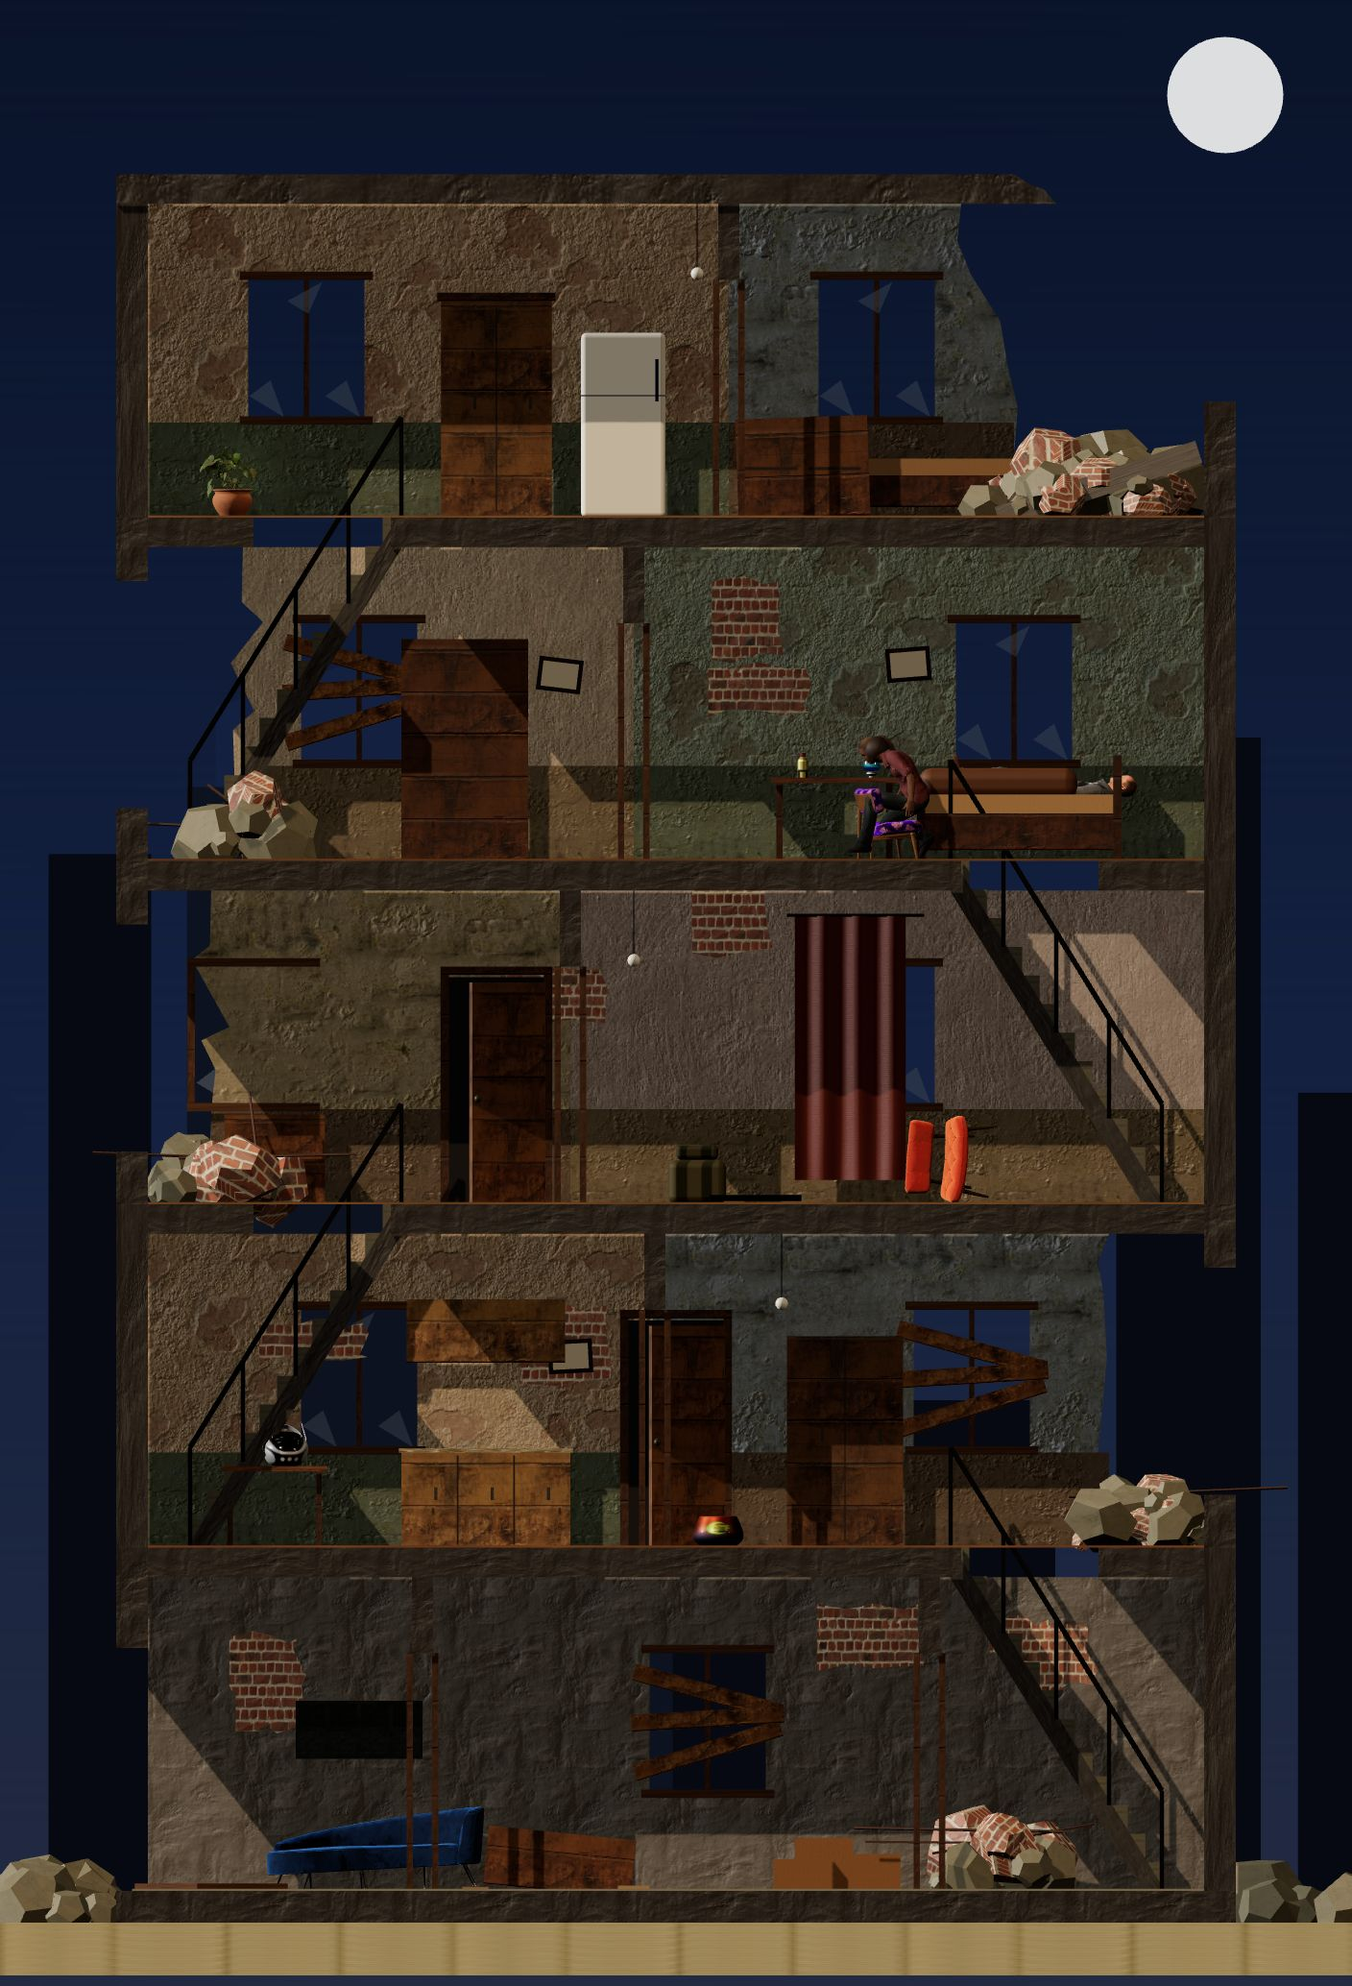
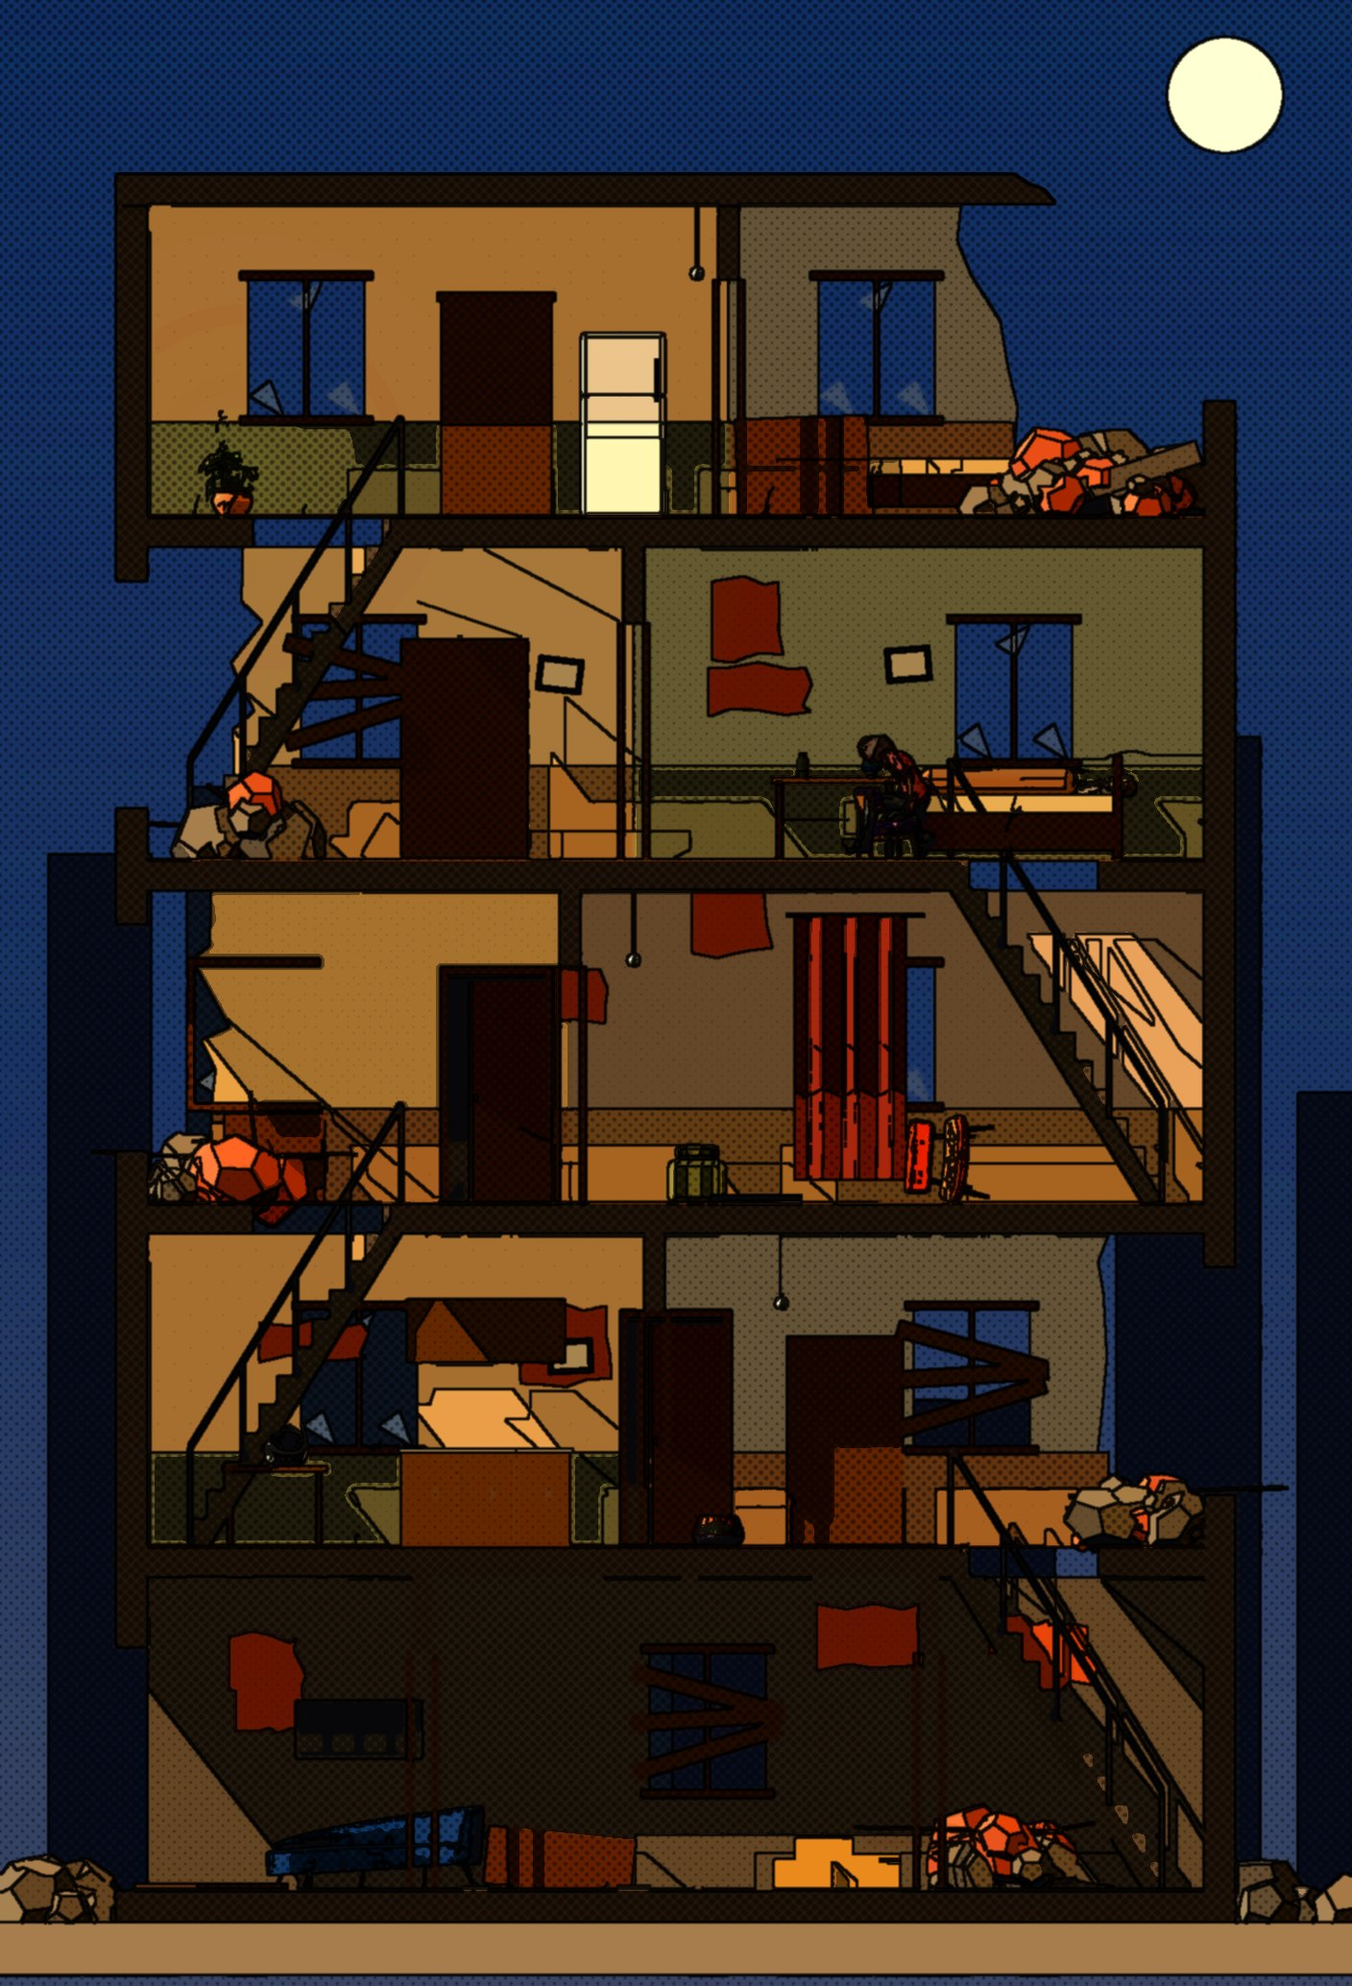
天亮之前：第一關改成美式漫畫風格（粗墨線、平塗、網點、旁白框、對話泡泡、狀聲字）
Claude-Session: https://claude.ai/code/session_012Lv6gWQAPaAvqZzYnHc8ne

diff --git a/night/index.html b/night/index.html
@@ -5,15 +5,15 @@
 <meta name="viewport" content="width=device-width,initial-scale=1,maximum-scale=1,user-scalable=no,viewport-fit=cover">
 <title>天亮之前</title>
 <link rel="preconnect" href="https://fonts.googleapis.com">
-<link href="https://fonts.googleapis.com/css2?family=Noto+Serif+TC:wght@600;900&display=swap" rel="stylesheet">
+<link href="https://fonts.googleapis.com/css2?family=Noto+Serif+TC:wght@600;900&family=Noto+Sans+TC:wght@500;700;900&display=swap" rel="stylesheet">
 <style>
-  :root { --paper: #ebe6da; --ink: #26231f; --mid: #8a837a; --acc: #9b2b1f; --btn: #f4f0e6; --btnInk: #26231f; }
+  :root { --font: "Noto Serif TC", "Songti TC", serif; --cap: #ebe6da; --paper: #ebe6da; --ink: #26231f; --mid: #8a837a; --acc: #9b2b1f; --btn: #f4f0e6; --btnInk: #26231f; }
   html, body { margin: 0; height: 100%; background: var(--paper); overflow: hidden; touch-action: none; -webkit-user-select: none; user-select: none; -webkit-touch-callout: none; }
-  body { font-family: "Noto Serif TC", "Songti TC", serif; color: var(--ink); }
+  body { font-family: var(--font); color: var(--ink); }
   canvas { position: fixed; inset: 0; width: 100vw; height: 100dvh; display: block; }
   #ctl[hidden] { display: none !important; }
   #ctl { position: fixed; left: 0; right: 0; bottom: 0; height: 128px; padding: 0 14px calc(10px + env(safe-area-inset-bottom)); display: flex; align-items: center; gap: 12px; pointer-events: none; }
-  .b { pointer-events: auto; border: 3px solid var(--btnInk); background: var(--btn); color: var(--btnInk); font: 900 22px "Noto Serif TC", serif; border-radius: 2px; height: 86px; display: grid; place-items: center; box-shadow: 4px 4px 0 var(--btnInk); -webkit-tap-highlight-color: transparent; padding: 0; }
+  .b { pointer-events: auto; border: 3px solid var(--btnInk); background: var(--btn); color: var(--btnInk); font: 900 22px var(--font); border-radius: 2px; height: 86px; display: grid; place-items: center; box-shadow: 4px 4px 0 var(--btnInk); -webkit-tap-highlight-color: transparent; padding: 0; }
   .b:active, .b.on { transform: translate(3px, 3px); box-shadow: 1px 1px 0 var(--btnInk); }
   #bL, #bR { width: 92px; font-size: 40px; }
   #bAct { flex: 1; font-size: 26px; line-height: 1.15; }
@@ -29,17 +29,26 @@
   .sheet .q { color: var(--acc); font-weight: 900; }
   .sheet .row { display: grid; gap: 12px; margin-top: 14px; }
   .sheet .row.two { grid-template-columns: 1fr 1fr; }
-  .sheet button { pointer-events: auto; border: 3px solid var(--ink); background: var(--btn); color: var(--ink); font: 900 21px "Noto Serif TC", serif; padding: 14px 6px; box-shadow: 4px 4px 0 var(--ink); border-radius: 2px; line-height: 1.3; }
+  .sheet button { pointer-events: auto; border: 3px solid var(--ink); background: var(--btn); color: var(--ink); font: 900 21px var(--font); padding: 14px 6px; box-shadow: 4px 4px 0 var(--ink); border-radius: 2px; line-height: 1.3; }
   .sheet button small { display: block; font-size: 14px; font-weight: 600; color: var(--mid); }
   .sheet button:active { transform: translate(3px, 3px); box-shadow: 1px 1px 0 var(--ink); }
   .sheet .timer { height: 8px; background: var(--ink); margin: 6px 0 4px; transform-origin: left; }
   .sheet .note { font-size: 15px; color: var(--mid); font-weight: 600; margin-top: 14px; }
   #card .credit { font-size: 11px; line-height: 1.5; opacity: .55; margin: 10px 0 0; font-weight: 400; }
-  #toast { position: fixed; left: 50%; bottom: 146px; transform: translateX(-50%); font: 900 19px "Noto Serif TC", serif; padding: 8px 16px; background: var(--paper); border: 3px solid var(--ink); box-shadow: 4px 4px 0 var(--ink); white-space: nowrap; transition: opacity .3s; opacity: 0; pointer-events: none; }
+  #toast { position: fixed; left: 50%; bottom: 146px; transform: translateX(-50%); font: 900 19px var(--font); padding: 8px 16px; background: var(--paper); border: 3px solid var(--ink); box-shadow: 4px 4px 0 var(--ink); white-space: nowrap; transition: opacity .3s; opacity: 0; pointer-events: none; }
   /* 樣式二：褪色照片 */
   body.s2 { --paper: #d9d1c2; --ink: #16181b; --mid: #6d6a63; --acc: #a33a2a; --btn: #e3dccd; background: #101215; }
   /* 樣式三：版畫 */
   body.s3 { --paper: #efe6d0; --ink: #141210; --mid: #5a524a; --acc: #b3261e; --btn: #efe6d0; }
+  /* 第一關：美式漫畫 */
+  body.comic { --font: "Noto Sans TC", "PingFang TC", sans-serif; --paper: #fffaf0; --ink: #0d0d0f; --mid: #4a4744; --acc: #d8261c; --btn: #fffaf0; --btnInk: #0d0d0f; --cap: #f7d23c; background: #0d0d0f; }
+  body.comic .b, body.comic .sheet, body.comic .sheet button, body.comic #toast { border-width: 4px; }
+  body.comic .sheet { box-shadow: 9px 9px 0 var(--ink); }
+  body.comic .sheet h1 { display: inline-block; background: var(--cap); border: 4px solid var(--ink); padding: 2px 12px; transform: rotate(-1.5deg); margin-bottom: 10px; }
+  body.comic .sheet h2 { font-weight: 700; }
+  body.comic .sheet p { font-weight: 500; }
+  body.comic #toast { background: var(--cap); font-weight: 900; letter-spacing: 1px; }
+  body.comic .sheet button { background: #fff; }
 </style>
 </head>
 <body>
@@ -56,7 +65,7 @@
    避開巡邏兵的手電筒與外面的探照燈；四樓老夫婦的桌上有藥。天亮前回家。
    ========================================================= */
 const Q = new URLSearchParams(location.search);
-const STYLE = 2; document.body.classList.add('s2'); // 擬真夜景（3D 算繪的公寓剖面＋人物動作圖）
+const STYLE = 2; document.body.classList.add('s2', 'comic'); const COMIC = true, FONT = COMIC ? '"Noto Sans TC", "PingFang TC", sans-serif' : '"Noto Serif TC", serif'; // 擬真夜景（3D 算繪的公寓剖面＋人物動作圖）
 const cv = document.getElementById('cv'), g = cv.getContext('2d');
 const $ = (id) => document.getElementById(id);
 const clamp = (v, a, b) => Math.max(a, Math.min(b, v)), lerp = (a, b, t) => a + (b - a) * t;
@@ -178,7 +187,9 @@ function plan() {
 }
 function startNight() { hideCard(); S.phase = 'night'; S.t = 0; $('ctl').hidden = false; toast('天亮前要回到一樓的門口', 2200); }
 
-let DLG = null; // 四樓老夫婦的兩難：限時 8 秒
+let DLG = null; const FX = []; // 狀聲字
+function say(text, dur = 1.8) { S.say = { text, t: dur }; }
+// 上面：四樓老夫婦的兩難（限時 8 秒）、漫畫的狀聲字與對話泡泡
 function coupleDilemma(box) {
   S.phase = 'dlg'; DLG = { t: 8, box };
   card(`<h1 style="font-size:26px">四樓・老夫婦的房間</h1>
@@ -198,7 +209,7 @@ function addLoot(it) { if (S.bag.length >= S.cap) { toast('背包滿了'); retur
 
 function caught(by) {
   S.caught = true; S.phase = 'end'; S.lost = S.bag.length; S.bag = []; $('ctl').hidden = true; S.spotBy = by;
-  setTimeout(morning, 1400); toast(by === 'beam' ? '探照燈照到你了！' : '巡邏兵：「站住！」', 1400);
+  setTimeout(morning, 1400); if (by === 'beam') toast('探照燈照到你了！', 1400); else say('站住！', 2);
 }
 function goHome() { S.home = true; S.phase = 'end'; $('ctl').hidden = true; morning(); }
 function morning() {
@@ -258,6 +269,10 @@ function update(dt) {
     if (p.search.t >= p.search.need) { const b = p.search.b; b.done = true; p.search = null; if (!b.loot.length) toast(`${b.n}：空的`); else { const got = []; for (const it of b.loot) if (addLoot(it)) got.push(it); if (got.length) toast(`找到：${got.join('、')}`); } } }
   // 巡邏兵（三樓）：來回走、在兩端停下來張望；聽到聲音就走過來看
   const sol = S.sol; sol.look += dt;
+  if (sol.mode !== sol.prevMode) { if (sol.mode === 'listen') say(sol.prevMode === 'rest' ? '……嗯？' : '嗯？'); else if (sol.mode === 'look') say('誰在那裡？'); sol.prevMode = sol.mode; }
+  if (S.say) { S.say.t -= dt; if (S.say.t <= 0) S.say = null; }
+  for (let i = FX.length - 1; i >= 0; i--) { FX[i].t += dt; if (FX[i].t > 0.9) FX.splice(i, 1); }
+  if (p.search) { p.search.fx = (p.search.fx || 0) - dt; if (p.search.fx <= 0) { p.search.fx = 0.65; FX.push({ x: p.x + (Math.random() - 0.3) * 0.6, y: p.f * HF + 0.9 + Math.random() * 0.4, text: ['喀啦', '沙沙', '咔'][Math.floor(Math.random() * 3)], t: 0 }); } }
   if (sol.mode === 'patrol') { if (sol.wait > 0) { sol.wait -= dt; if (sol.wait < 1.0 && sol.wait + dt >= 1.0) sol.dir = -sol.dir; } else { sol.x += sol.dir * 0.85 * dt; if (sol.x < 1.0 || sol.x > 9.2) { const left = sol.x < 1.0; sol.x = clamp(sol.x, 1.0, 9.2); sol.wait = 2.2; if (left) { sol.legs = (sol.legs || 0) + 1; if (sol.legs % 2 === 0) { sol.mode = 'rest'; sol.dir = -1; sol.wait = 12; } } } } }
   else if (sol.mode === 'listen') { const d = sol.tx - sol.x; if (Math.abs(d) > 0.6) { sol.dir = Math.sign(d); sol.x += sol.dir * 1.15 * dt; } else { sol.mode = 'look'; sol.wait = 3; } }
   else if (sol.mode === 'rest') { sol.wait -= dt; if (sol.wait <= 0) { sol.mode = 'patrol'; sol.dir = 1; sol.wait = 0.6; } } // 在窗邊抽菸：面向窗外、手電筒關掉
@@ -267,7 +282,7 @@ function update(dt) {
   if (!p.hide && sol.mode !== 'rest' && (p.climb <= 0 || climbK(p) > 0.75) && sol.f === p.f) { const dx = (p.x - sol.x) * sol.dir; if (dx > 0.15 && dx < 3.2) { seen = 1.6 - dx * 0.25; by = 'sol'; } }
   S.beam.t += dt; const bx = beamX();
   if (!p.hide && p.f === 4 && bx !== null && Math.abs(p.x - bx) < 0.7 && WINDOWS.some((w) => w.f === 4 && Math.abs(w.x - p.x) < 0.8)) { seen = Math.max(seen, 1.5); by = by || 'beam'; }
-  if (seen) { S.spot += seen * dt; S.spotBy = by; } else S.spot = Math.max(0, S.spot - dt * 0.7);
+  if (seen) { if (S.spot < 0.45 && S.spot + seen * dt >= 0.45 && by === 'sol') say('那是什麼……'); S.spot += seen * dt; S.spotBy = by; } else S.spot = Math.max(0, S.spot - dt * 0.7);
   if (S.spot > 0.05) { AU.hbT -= dt; if (AU.hbT <= 0) { AU.hbT = 0.55 - S.spot * 0.3; thump(0.18 + S.spot * 0.4); } }
   if (S.spot >= 1 && S.phase === 'night') caught(S.spotBy);
   if (AU.wind && AU.ctx) AU.wind.gain.value = 0.05;
@@ -308,7 +323,7 @@ function player() { const p = S.p; let y = BASE(p.f), x = X(p.x), nm = 'p_idle',
   if (p.climb > 0) { y = WY(climbY(p)); nm = climbK(p) < 0.15 ? 'p_walk' : 'p_climb'; fr = p.walk * 1.1; }
   else if (p.hide || p.search) nm = 'p_crouch'; else if (Math.abs(p.vx) > 0.3) { nm = 'p_walk'; fr = p.walk * 1.1; }
   if (p.hide && p.hide.k === 'curtain') nm = 'p_idle'; // 站在窗簾後面，只露出腳
-  sprite(nm, fr, x, y, p.face, p.hide ? 0.55 : 0.12); }
+  if (COMIC && !p.hide) { g.save(); g.shadowColor = 'rgba(255,236,170,0.95)'; g.shadowBlur = 7; } sprite(nm, fr, x, y, p.face, p.hide ? 0.55 : COMIC ? 0 : 0.12); if (COMIC && !p.hide) g.restore(); }
 // 背景圖的一塊（世界座標的長方形）畫到畫面上
 function bgPart(img, x0, y0, x1, y1, ctx = g) { const k = BGV.pxm; ctx.drawImage(img, (x0 - BGV.x0) * k, (BGV.y1 - y1) * k, (x1 - x0) * k, (y1 - y0) * k, X(x0), WY(y1), (x1 - x0) * L.u, (y1 - y0) * L.u); }
 const HIDE_BOX = { door: [-0.62, 0.62, 2.3], curtain: [-0.62, 0.62, 2.8], wardrobe: [-0.62, 0.62, 2.2], tipped: [-0.75, 0.75, 1.1] };
@@ -358,7 +373,15 @@ function draw() {
   if (sh.beam) { g.globalAlpha = 0.2; g.fillStyle = '#dfe8ff'; g.beginPath(); sh.beam.forEach(([x, y], i) => (i ? g.lineTo(x, y) : g.moveTo(x, y))); g.closePath(); g.fill(); }
   g.restore();
   dust();
-  if (S.spot > 0.05 && S.spotBy === 'sol') { g.fillStyle = '#ff5a48'; g.font = `900 ${Math.round(L.fh * 0.3)}px serif`; g.textAlign = 'center'; g.fillText('！', X(S.sol.x), BASE(S.sol.f) - L.fh * 0.7); }
+  if (COMIC) { // 漫畫：狀聲字、對話泡泡
+    for (const fx of FX) { const k = fx.t / 0.9; g.save(); g.globalAlpha = 1 - k * k; g.translate(X(fx.x), WY(fx.y + k * 0.35)); g.rotate(-0.12); g.font = `900 ${Math.round(L.u * 0.42)}px ` + FONT; g.textAlign = 'center'; g.lineJoin = 'round'; g.lineWidth = 5; g.strokeStyle = '#0d0d0f'; g.strokeText(fx.text, 0, 0); g.fillStyle = '#f7d23c'; g.fillText(fx.text, 0, 0); g.restore(); }
+    if (S.say && S.sol.f >= 0) { const sx = X(S.sol.x), sy = BASE(S.sol.f) - L.u * 2.05; g.font = `900 ${Math.round(Math.max(15, L.u * 0.46))}px ` + FONT; const tw = g.measureText(S.say.text).width, bw = tw + 26, bh = Math.max(34, L.u * 0.95); const bx = clamp(sx - bw * 0.35, 8, W - bw - 8), by = sy - bh;
+      const pop = Math.min(1, (1.8 - Math.min(1.8, S.say.t)) * 8 + 0.6); g.save(); g.translate(bx + bw / 2, by + bh / 2); g.scale(pop, pop); g.translate(-(bx + bw / 2), -(by + bh / 2));
+      g.fillStyle = '#fff'; g.strokeStyle = '#0d0d0f'; g.lineWidth = 3.5; g.beginPath(); g.ellipse(bx + bw / 2, by + bh / 2, bw / 2, bh / 2, 0, 0, 7); g.fill(); g.stroke();
+      g.beginPath(); g.moveTo(sx - 6, by + bh - 4); g.lineTo(sx + 2, sy + L.u * 0.25); g.lineTo(sx + 10, by + bh - 6); g.closePath(); g.fill(); g.beginPath(); g.moveTo(sx - 6, by + bh - 2); g.lineTo(sx + 2, sy + L.u * 0.25); g.lineTo(sx + 10, by + bh - 4); g.stroke();
+      g.fillStyle = '#0d0d0f'; g.textAlign = 'center'; g.textBaseline = 'middle'; g.fillText(S.say.text, bx + bw / 2, by + bh / 2 + 1); g.textBaseline = 'alphabetic'; g.restore(); }
+  }
+  if (S.spot > 0.05 && S.spotBy === 'sol') { g.fillStyle = '#ff5a48'; g.font = `900 ${Math.round(L.fh * 0.3)}px ` + FONT; g.textAlign = 'center'; g.fillText('！', X(S.sol.x), BASE(S.sol.f) - L.fh * 0.7); }
   if (CLEAN) return;
   for (const b of S.boxes) if (S.p.f === b.f && Math.abs(S.p.x - b.x) < 2.2) { g.globalAlpha = b.done ? 0.45 : 1; marker(X(b.x), BASE(b.f) - L.fh * 0.78, b.done ? '✕' : '?'); g.globalAlpha = 1; if (!b.done && b.prog > 0 && !(S.p.search && S.p.search.b === b)) { const need = S.ate ? 1.7 : 2.6, x0 = X(b.x) - 16, y0 = BASE(b.f) - L.fh * 0.78 + 16; g.fillStyle = 'rgba(22,24,27,0.85)'; g.fillRect(x0, y0, 32, 6); g.fillStyle = '#e8e1d0'; g.fillRect(x0, y0, 32 * Math.min(1, b.prog / need), 6); g.strokeStyle = '#e8e1d0'; g.lineWidth = 1.5; g.strokeRect(x0, y0, 32, 6); } }
   const LB = [];
@@ -375,18 +398,18 @@ function dust() { g.save(); g.globalCompositeOperation = 'lighter'; const ws = W
   for (const d of DUST) { const w = ws[d.w % ws.length]; const t = (S.t * 0.04 * d.s + d.a) % 1; const x = X(w.x - 0.55 + d.b * 1.1 - t * 0.6 + Math.sin(S.t * 0.7 + d.a * 9) * 0.05), y = WY(w.f * HF + 2.1 - t * 2.0); const al = Math.sin(t * Math.PI) * 0.35; g.fillStyle = `rgba(200,215,245,${al})`; g.fillRect(x, y, 1.4 * d.s + 0.4, 1.4 * d.s + 0.4); }
   g.restore(); }
 function marker(x, y, t) { const r = 12; g.fillStyle = '#e8e1d0'; g.strokeStyle = '#16181b'; g.lineWidth = 2.5; g.beginPath(); g.arc(x, y, r, 0, 7); g.fill(); g.stroke(); g.fillStyle = '#16181b'; g.font = '900 16px serif'; g.textAlign = 'center'; g.textBaseline = 'middle'; g.fillText(t, x, y + 1); g.textBaseline = 'alphabetic'; }
-function label(x, y, t) { g.font = '900 14px "Noto Serif TC", serif'; g.textAlign = 'center'; const w = g.measureText(t).width + 12; g.fillStyle = '#e8e1d0'; g.fillRect(x - w / 2, y - 15, w, 21); g.strokeStyle = '#16181b'; g.lineWidth = 2; g.strokeRect(x - w / 2, y - 15, w, 21); g.fillStyle = '#16181b'; g.fillText(t, x, y + 1); }
+function label(x, y, t) { g.font = '900 14px ' + FONT; g.textAlign = 'center'; const w = g.measureText(t).width + 12; g.fillStyle = '#e8e1d0'; g.fillRect(x - w / 2, y - 15, w, 21); g.strokeStyle = '#16181b'; g.lineWidth = 2; g.strokeRect(x - w / 2, y - 15, w, 21); g.fillStyle = '#16181b'; g.fillText(t, x, y + 1); }
 function hud() {
-  const y = 12, bg = '#e3dccd', ink = '#16181b';
+  const y = 12, bg = COMIC ? '#f7d23c' : '#e3dccd', ink = COMIC ? '#0d0d0f' : '#16181b';
   if (!hud.grain) { const c = document.createElement('canvas'); c.width = c.height = 96; const h = c.getContext('2d'); const d = h.createImageData(96, 96); for (let i = 0; i < d.data.length; i += 4) { const v = Math.random() * 255; d.data[i] = d.data[i + 1] = d.data[i + 2] = v; d.data[i + 3] = 18; } h.putImageData(d, 0, 0); hud.grain = g.createPattern(c, 'repeat'); }
-  g.save(); g.fillStyle = hud.grain; g.translate((Math.random() * 96) | 0, (Math.random() * 96) | 0); g.fillRect(-96, -96, W + 192, H + 192); g.restore();
+  if (!COMIC) { g.save(); g.fillStyle = hud.grain; g.translate((Math.random() * 96) | 0, (Math.random() * 96) | 0); g.fillRect(-96, -96, W + 192, H + 192); g.restore(); }
   const vg = g.createRadialGradient(W / 2, H * 0.45, Math.min(W, H) * 0.32, W / 2, H * 0.45, Math.max(W, H) * 0.75); vg.addColorStop(0, 'rgba(0,0,0,0)'); vg.addColorStop(1, 'rgba(0,0,0,0.35)'); g.fillStyle = vg; g.fillRect(0, 0, W, H);
-  g.fillStyle = bg; g.fillRect(10, y, W - 20, 50); g.strokeStyle = ink; g.lineWidth = 3; g.strokeRect(10, y, W - 20, 50);
-  g.fillStyle = ink; g.textAlign = 'left'; g.font = '900 20px "Noto Serif TC", serif'; g.textBaseline = 'middle';
+  g.fillStyle = bg; g.fillRect(10, y, W - 20, 50); g.strokeStyle = ink; g.lineWidth = COMIC ? 4 : 3; g.strokeRect(10, y, W - 20, 50);
+  g.fillStyle = ink; g.textAlign = 'left'; g.font = '900 20px ' + FONT; g.textBaseline = 'middle';
   const s = Math.ceil(S.dawn); g.fillText(S.phase === 'title' || S.phase === 'day' ? '被圍第 37 天' : `天亮前 ${Math.floor(s / 60)}:${String(s % 60).padStart(2, '0')}`, 22, y + 25);
-  g.textAlign = 'right'; g.font = '900 18px "Noto Serif TC", serif';
+  g.textAlign = 'right'; g.font = '900 18px ' + FONT;
   g.fillText(`${S.bag.length ? S.bag.join(' ') : '背包空的'}（${S.bag.length}/${S.cap}）`, W - 22, y + 25);
-  if (S.spot > 0.02) { g.fillStyle = '#c0483a'; g.fillRect(10, y + 50, (W - 20) * Math.min(1, S.spot), 8); g.font = '900 15px "Noto Serif TC", serif'; g.textAlign = 'left'; g.fillText('快被發現了', 14, y + 72); }
+  if (S.spot > 0.02) { g.fillStyle = '#c0483a'; g.fillRect(10, y + 50, (W - 20) * Math.min(1, S.spot), 8); g.font = '900 15px ' + FONT; g.textAlign = 'left'; g.fillText('快被發現了', 14, y + 72); }
   const p = S.p; if (p.search) { const k = p.search.t / p.search.need; const x0 = X(p.x) - 28, y0 = BASE(p.f) - L.fh * 0.86; g.fillStyle = bg; g.fillRect(x0, y0, 56, 10); g.fillStyle = ink; g.fillRect(x0, y0, 56 * k, 10); g.strokeStyle = ink; g.lineWidth = 2; g.strokeRect(x0, y0, 56, 10); }
   g.textBaseline = 'alphabetic';
 }
